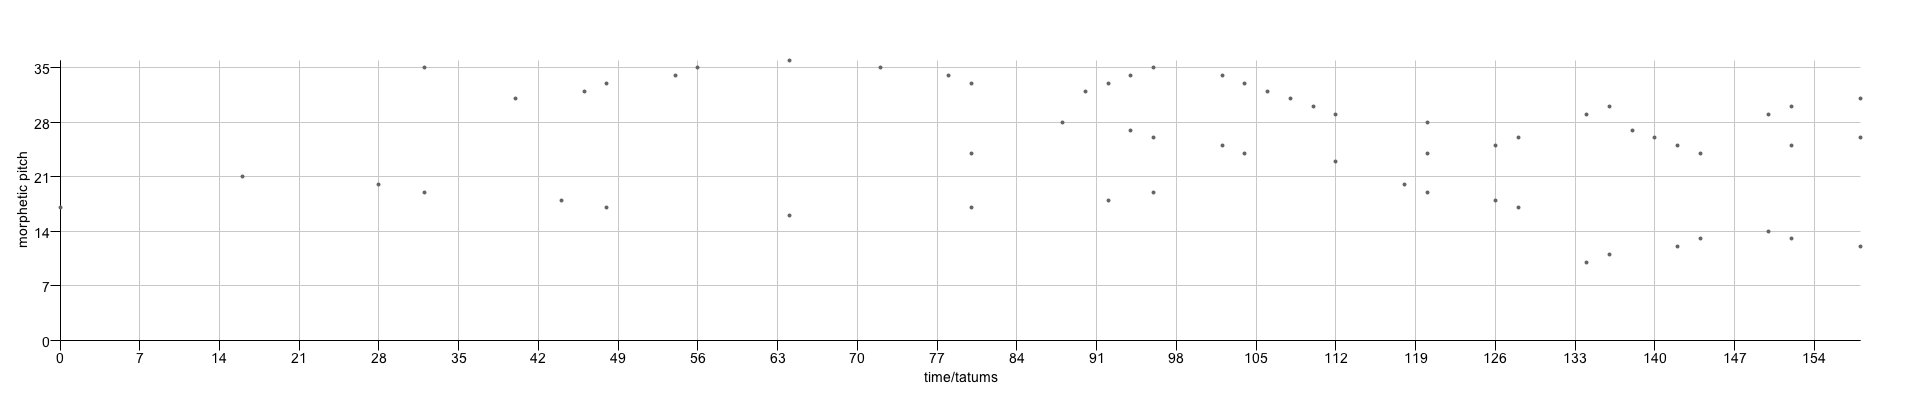
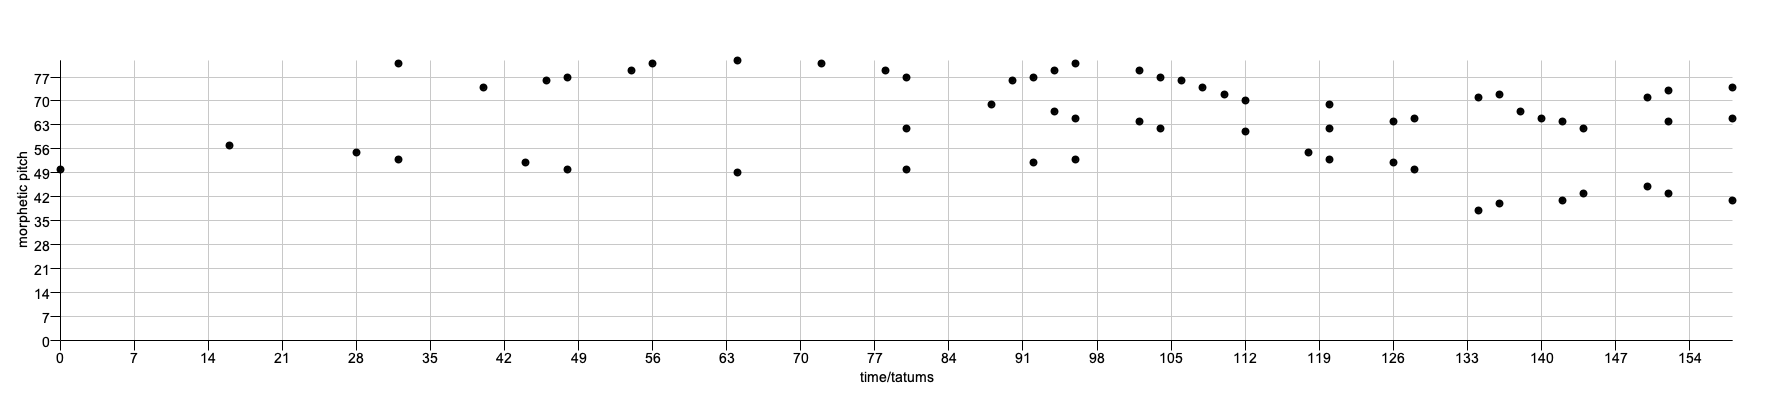
Minor changes to DrawPoints.java, PointSet.java and S<cALEXIA3Encoding.java to allow for generating Scalexia-ready point set where time is mid-point of note rather than onset. Also generated new png and pts files for MenuettoAlRovescio and ContrapunctusCIStart. Added ScalexiaPointSet.java for genera

diff --git a/Points/src/com/chromamorph/points022/PointSet.java b/Points/src/com/chromamorph/points022/PointSet.java
@@ -291,6 +291,15 @@ public class PointSet implements Comparable<PointSet>{
 	public TreeSet<Point> getPoints() {
 		return points;
 	}
+	
+	public PointSet getScalexiaPointSet() {
+		PointSet ps = new PointSet();
+		for(Point p : getPoints()) {
+			Point newPoint = new Point(2 * p.getX() + p.getDuration(),p.getY());
+			ps.add(newPoint);
+		}
+		return ps;
+	}
 
 	/**
 	 * a.diff(b) returns the set of points in a 
@@ -437,6 +446,23 @@ public class PointSet implements Comparable<PointSet>{
 				frame.setMinimumSize(new Dimension(DrawPoints.drawWindowWidth,DrawPoints.drawWindowHeight+23));
 				frame.setResizable(false);
 				PApplet embed = new DrawPoints(PointSet.this, diatonicPitch, saveImageFile);
+				frame.add(embed);
+				embed.init();
+				frame.pack();
+				frame.setVisible(true);
+			}
+		});
+		return frame;
+	}
+
+	public JFrame draw(final String title, final boolean diatonicPitch, final boolean saveImageFile, final String outputFilePath) {
+		javax.swing.SwingUtilities.invokeLater(new Runnable() {
+			public void run() {
+				frame = new JFrame();
+				frame.setTitle(title);
+				frame.setMinimumSize(new Dimension(DrawPoints.drawWindowWidth,DrawPoints.drawWindowHeight+23));
+				frame.setResizable(false);
+				PApplet embed = new DrawPoints(PointSet.this, diatonicPitch, saveImageFile, outputFilePath);
 				frame.add(embed);
 				embed.init();
 				frame.pack();

diff --git a/Points/src/com/chromamorph/points022/SCALEXIA3Encoding.java b/Points/src/com/chromamorph/points022/SCALEXIA3Encoding.java
@@ -416,11 +416,11 @@ public class SCALEXIA3Encoding extends Encoding {
 //										"data/simple/scalingExample01.pts",
 //										"data/simple/inversion-example.pts",
 //										"data/simple/scalexia-example.pts",
-//										"data/Haydn/MenuettoAlRovescio.opnd",
+										"data/Haydn/MenuettoAlRovescio.opnd",
 //										"data/Die Kunst der Fuge/ContrapunctusVIStart.opnd",
 //										"data/WTCI-FUGUES-FOR-JNMR-2014/bwv847b-done.opnd",
 //										"data/Die Kunst der Fuge/ContrapunctusVI.opnd",
-					args[0],
+//					args[0],
 					PitchRepresentation.CHROMATIC_PITCH,
 //					PitchRepresentation.MORPHETIC_PITCH,
 					minPatternSize, //minPatternSize 20 for rovescio, 5 for contrapunctus
@@ -431,7 +431,7 @@ public class SCALEXIA3Encoding extends Encoding {
 //			System.out.println(encoding);
 //			for(PatternPair patternPair : encoding.patternPairs)
 //				System.out.println(patternPair);
-			encoding.draw();
+			encoding.drawOccurrenceSetsToFile("data/Haydn/MenuettoAlRovescio.png", false);;
 		} catch (NoMorpheticPitchException | IOException
 				| UnimplementedInputFileFormatException
 				| InvalidMidiDataException e) {

diff --git a/Points/src/com/chromamorph/points022/DrawPoints.java b/Points/src/com/chromamorph/points022/DrawPoints.java
@@ -39,8 +39,8 @@ public class DrawPoints extends PApplet {
 	public static int drawWindowHeight = 400;
 	public static int drawWindowWidth = java.awt.Toolkit.getDefaultToolkit().getScreenSize().width;
 	public static int maxNumberOfIntervals = 20;
-	private int pointWidth = 4;
-	private int pointHeight = 4;
+	private int pointWidth = 8;
+	private int pointHeight = 8;
 	private int lineWidth = 2;
 
 	private PatternVectorSetPairList patternVectorSetPairs = null;
@@ -85,6 +85,16 @@ public class DrawPoints extends PApplet {
 		this.points = points;
 		this.diatonicPitch = diatonicPitch;
 		this.saveImageFile = saveImageFile;
+	}
+
+	public DrawPoints(PointSet points, boolean diatonicPitch, boolean saveImageFile, String outputFilePath) {
+		super();
+		tecs = null;
+		patternPairs = null;
+		this.points = points;
+		this.diatonicPitch = diatonicPitch;
+		this.saveImageFile = saveImageFile;
+		this.outputFilePath = outputFilePath;
 	}
 
 	public DrawPoints(PointSet points, String title, boolean diatonicPitch) {

diff --git a/Points/src/com/chromamorph/points022/ScalexiaPointSet.java b/Points/src/com/chromamorph/points022/ScalexiaPointSet.java
@@ -1,0 +1,17 @@
+package com.chromamorph.points022;
+
+import java.io.IOException;
+
+import com.chromamorph.notes.Notes.MissingTieStartNoteException;
+
+public class ScalexiaPointSet {
+	public static void main(String[] args) throws MissingTieStartNoteException, IOException {
+		PointSet pointSet = new PointSet("data/Haydn/MenuettoAlRovescio.opnd");
+//		PointSet pointSet = new PointSet("data/Die Kunst der Fuge/ContrapunctusVIStart.opnd");
+		pointSet = pointSet.getScalexiaPointSet();
+//		pointSet.writeToPtsFile("data/Die Kunst der Fuge/ContrapunctusVIStart.pts");
+//		pointSet.draw("Contrapunctus VI", true, true, "data/Die Kunst der Fuge/ContrapunctusVIStart.png");
+		pointSet.writeToPtsFile("data/Haydn/MenuettoAlRovescio.pts");
+		pointSet.draw("Menuetto al Rovescio", false, true, "data/Haydn/MenuettoAlRovescio.png");
+	}
+}
